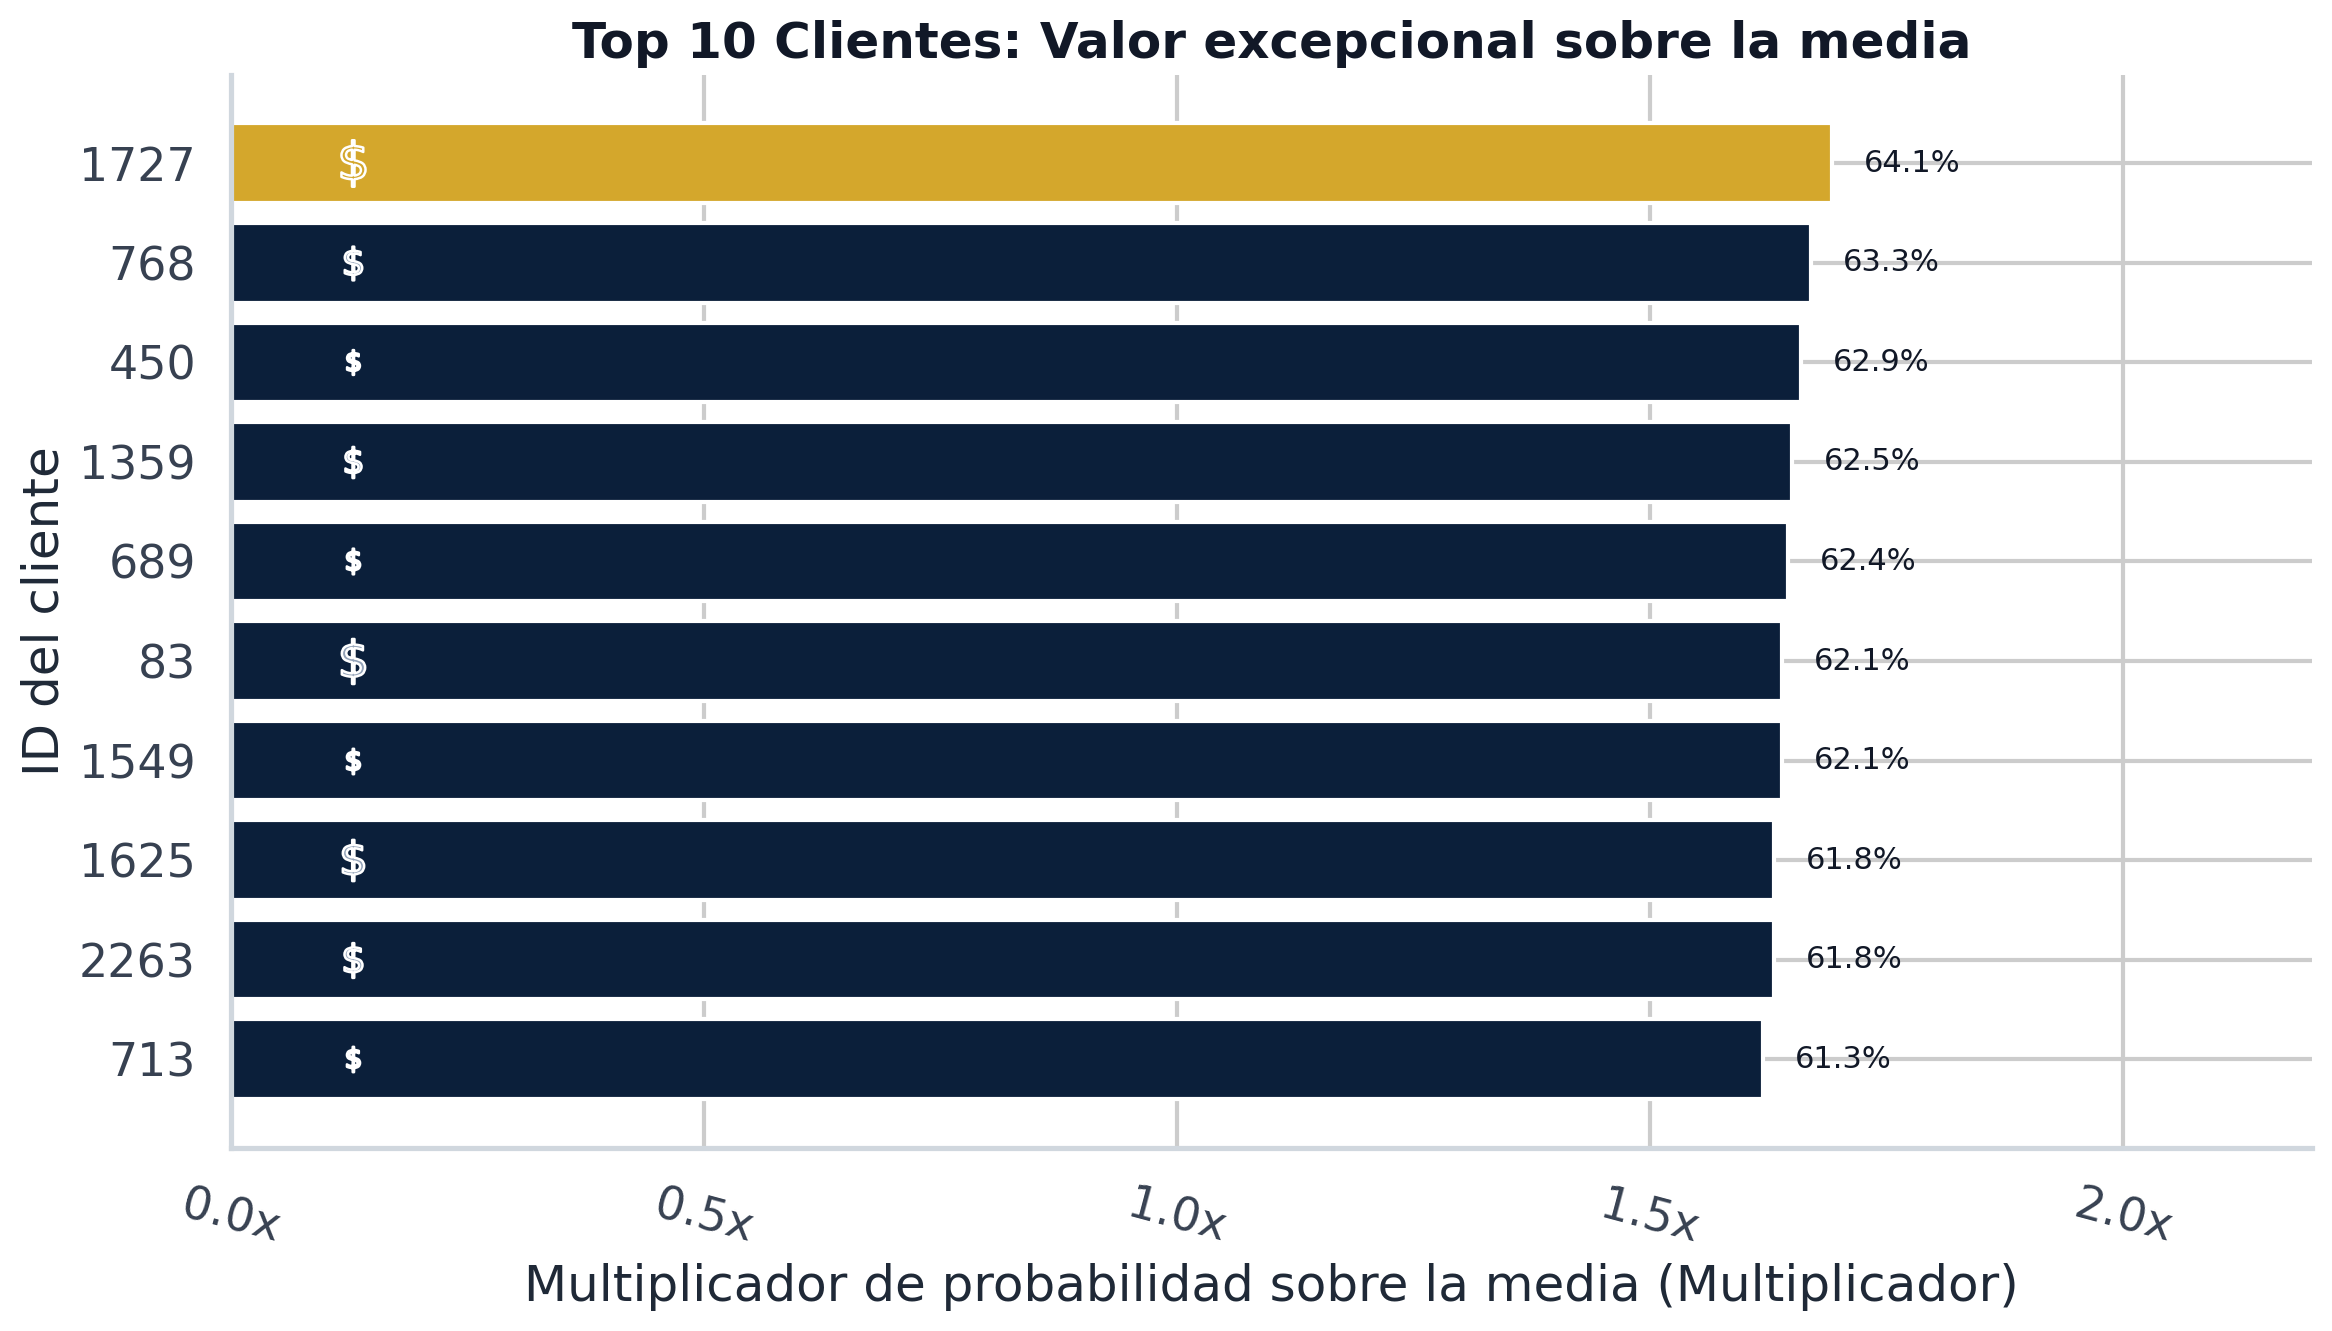
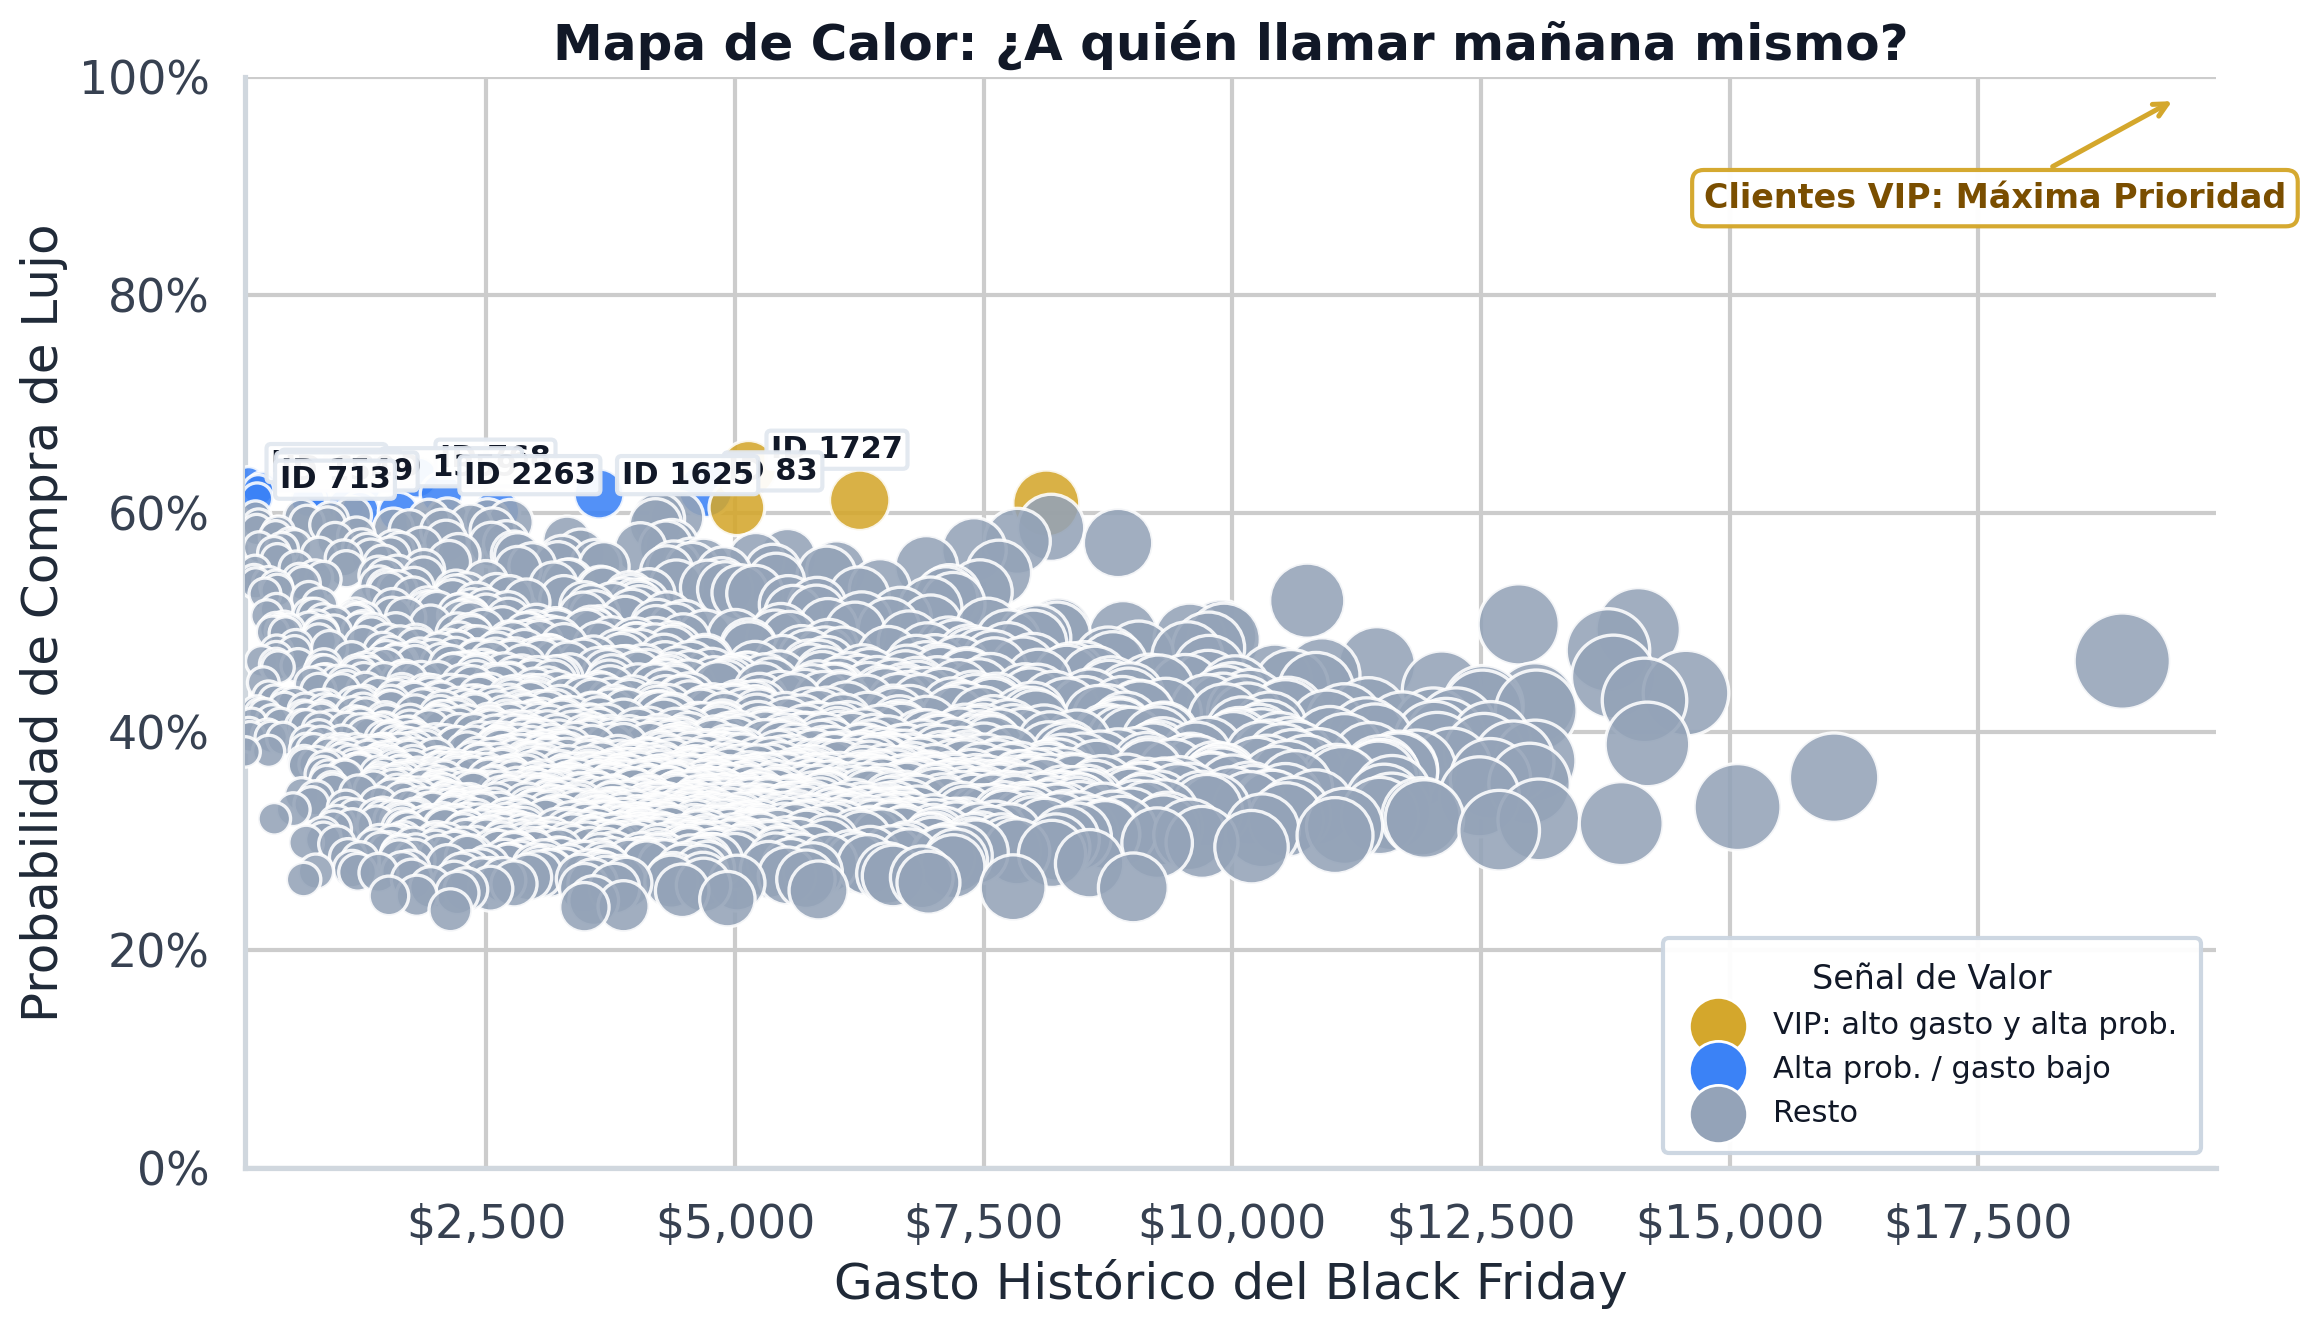
feat: Mejora en la visualización de resultados de clientes top y ajustes en la lógica de color y tamaño de burbujas

diff --git a/scripts/04_visualizar_resultados_ba.py b/scripts/04_visualizar_resultados_ba.py
@@ -132,59 +132,98 @@ def draw_top_clients_chart(ax: plt.Axes, df: pd.DataFrame, title: str, label_siz
     base_blue = "#0B1F3A"
     bright_gold = "#D4A72C"
     soft_gray = "#94A3B8"
+    blue_potential = "#3B82F6"
 
-    score_mean = float(df["probabilidad_compra_lujo"].mean())
-    top_10 = df.nlargest(10, "probabilidad_compra_lujo").copy()
-    top_10["multiplo_media"] = top_10["probabilidad_compra_lujo"] / score_mean
-    top_10 = top_10.sort_values("multiplo_media", ascending=True).reset_index(drop=True)
+    data = df.copy()
+    probability_threshold = 0.60
+    spend_threshold = float(data["gasto_total_neto"].quantile(0.60))
 
-    colors = [bright_gold if int(client_id) == 1727 else base_blue for client_id in top_10["id_cliente"]]
-    if bright_gold not in colors:
-        colors[-1] = bright_gold
-
-    ax.barh(top_10["id_cliente"].astype(str), top_10["multiplo_media"], color=colors, edgecolor="white")
-
-    x_pad = top_10["multiplo_media"].max() * 0.02
-    for index, row in top_10.iterrows():
-        ax.text(
-            row["multiplo_media"] + x_pad,
-            index,
-            f"{row['probabilidad_compra_lujo']:.1%}",
-            va="center",
-            ha="left",
-            fontsize=label_size,
-        )
-
-    min_size, max_size = 80, 280
-    spend_scaled = np.interp(
-        top_10["gasto_total_neto"],
-        (top_10["gasto_total_neto"].min(), top_10["gasto_total_neto"].max()),
-        (min_size, max_size),
+    data["etiqueta_color"] = data.apply(
+        lambda row: bright_gold if row["probabilidad_compra_lujo"] > probability_threshold and row["gasto_total_neto"] >= spend_threshold else (
+            blue_potential if row["probabilidad_compra_lujo"] > probability_threshold else soft_gray
+        ),
+        axis=1,
     )
-    icon_x = np.repeat(max(top_10["multiplo_media"].min() * 0.08, 0.05), len(top_10))
-    for idx, size in enumerate(spend_scaled):
-        icon_color = bright_gold if int(top_10.loc[idx, "id_cliente"]) == 1727 else soft_gray
-        ax.scatter(
-            icon_x[idx],
-            idx,
-            s=float(size),
-            marker="$\\$$",
-            color=icon_color,
-            edgecolors="white",
-            linewidths=0.9,
-            zorder=3,
+
+    def point_color(row: pd.Series) -> str:
+        if row["probabilidad_compra_lujo"] > probability_threshold and row["gasto_total_neto"] >= spend_threshold:
+            return bright_gold
+        if row["probabilidad_compra_lujo"] > probability_threshold and row["gasto_total_neto"] < spend_threshold:
+            return blue_potential
+        return soft_gray
+
+    bubble_colors = data.apply(point_color, axis=1)
+    spend_min = float(data["gasto_total_neto"].min())
+    spend_max = float(data["gasto_total_neto"].max())
+    size_min, size_max = 120, 1200
+    bubble_sizes = np.interp(data["gasto_total_neto"], (spend_min, spend_max), (size_min, size_max))
+
+    ax.scatter(
+        data["gasto_total_neto"],
+        data["probabilidad_compra_lujo"],
+        s=bubble_sizes,
+        c=bubble_colors,
+        alpha=0.88,
+        edgecolor="white",
+        linewidth=1.2,
+        zorder=3,
+    )
+
+    top_10 = data.nlargest(10, "probabilidad_compra_lujo").copy()
+    for _, row in top_10.iterrows():
+        x_offset = (spend_max - spend_min) * 0.012
+        y_offset = 0.004
+        ax.text(
+            row["gasto_total_neto"] + x_offset,
+            row["probabilidad_compra_lujo"] + y_offset,
+            f"ID {int(row['id_cliente'])}",
+            fontsize=label_size,
+            fontweight="bold",
+            color="#111827",
+            ha="left",
+            va="bottom",
+            bbox=dict(boxstyle="round,pad=0.15", facecolor="white", edgecolor="#E2E8F0", alpha=0.95),
+            zorder=4,
         )
 
-    ax.xaxis.set_major_formatter(FuncFormatter(lambda value, _: f"{value:.1f}x media"))
-    ax.xaxis.set_major_locator(MultipleLocator(0.5))
-    ax.xaxis.set_major_formatter(FuncFormatter(lambda value, _: f"{value:.1f}x"))
-    ax.tick_params(axis="x", labelrotation=-15)
+    ax.scatter([], [], s=260, c=bright_gold, edgecolors="white", linewidth=1.0, label="VIP: alto gasto y alta prob.")
+    ax.scatter([], [], s=260, c=blue_potential, edgecolors="white", linewidth=1.0, label="Alta prob. / gasto bajo")
+    ax.scatter([], [], s=260, c=soft_gray, edgecolors="white", linewidth=1.0, label="Resto")
+
+    ax.annotate(
+        "Clientes VIP: Máxima Prioridad",
+        xy=(0.98, 0.98),
+        xycoords="axes fraction",
+        xytext=(0.74, 0.88),
+        textcoords="axes fraction",
+        arrowprops=dict(arrowstyle="->", color=bright_gold, lw=1.8),
+        bbox=dict(boxstyle="round,pad=0.35", facecolor="white", edgecolor=bright_gold, alpha=0.98),
+        fontsize=12,
+        fontweight="bold",
+        color="#7A4E00",
+    )
+
+    ax.xaxis.set_major_formatter(FuncFormatter(lambda value, _: f"${value:,.0f}"))
+    ax.yaxis.set_major_formatter(FuncFormatter(lambda value, _: f"{value:.0%}"))
     ax.set_title(title)
-    ax.set_xlabel("Multiplicador de probabilidad sobre la media (Multiplicador)")
-    ax.set_ylabel("ID del cliente")
-    ax.set_xlim(0, top_10["multiplo_media"].max() * 1.3)
+    ax.set_xlabel("Gasto Histórico del Black Friday")
+    ax.set_ylabel("Probabilidad de Compra de Lujo")
+    ax.set_xlim(spend_min * 0.95, spend_max * 1.05)
+    ax.set_ylim(0, 1.0)
     ax.spines["top"].set_visible(False)
     ax.spines["right"].set_visible(False)
+    ax.legend(
+        title="Señal de Valor",
+        loc="lower right",
+        frameon=True,
+        facecolor="white",
+        framealpha=0.95,
+        edgecolor="#CBD5E1",
+        fontsize=11,
+        title_fontsize=12,
+        markerscale=1.3,
+        borderpad=0.8,
+    )
 
 
 def plot_top_clients(df: pd.DataFrame, output_path: Path) -> None:
@@ -192,7 +231,7 @@ def plot_top_clients(df: pd.DataFrame, output_path: Path) -> None:
     draw_top_clients_chart(
         ax,
         df,
-        "Top 10 Clientes: Valor excepcional sobre la media",
+        "Mapa de Calor: ¿A quién llamar mañana mismo?",
         label_size=11,
     )
     fig.tight_layout()
@@ -453,7 +492,7 @@ def build_executive_panel(df: pd.DataFrame, output_path: Path) -> None:
     draw_top_clients_chart(
         ax2,
         df,
-        "Top 10 Clientes: Valor excepcional sobre la media",
+        "Mapa de Calor: ¿A quién llamar mañana mismo?",
         label_size=10,
     )
 
